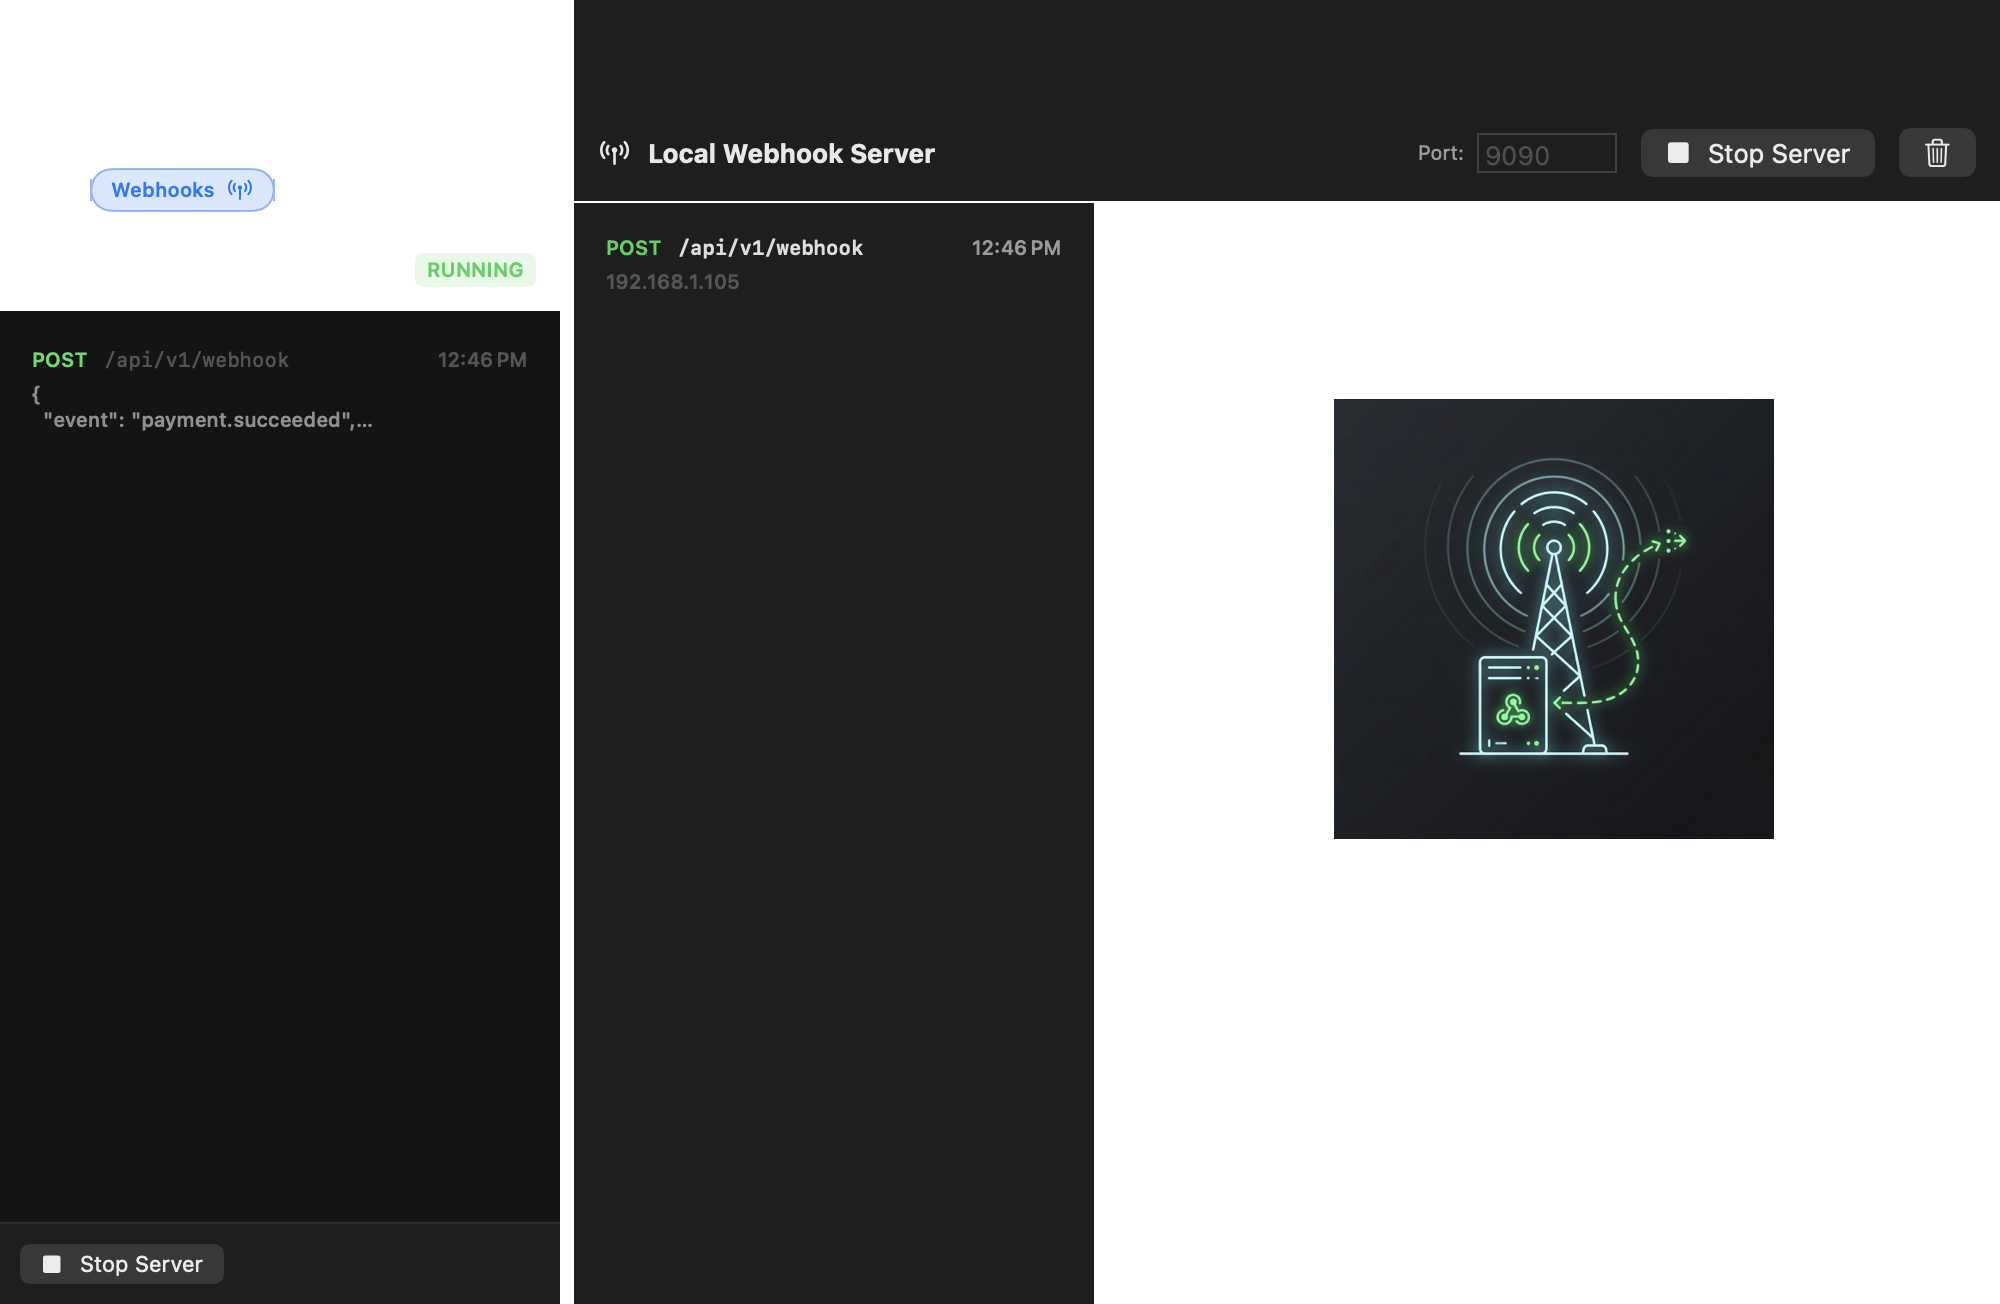
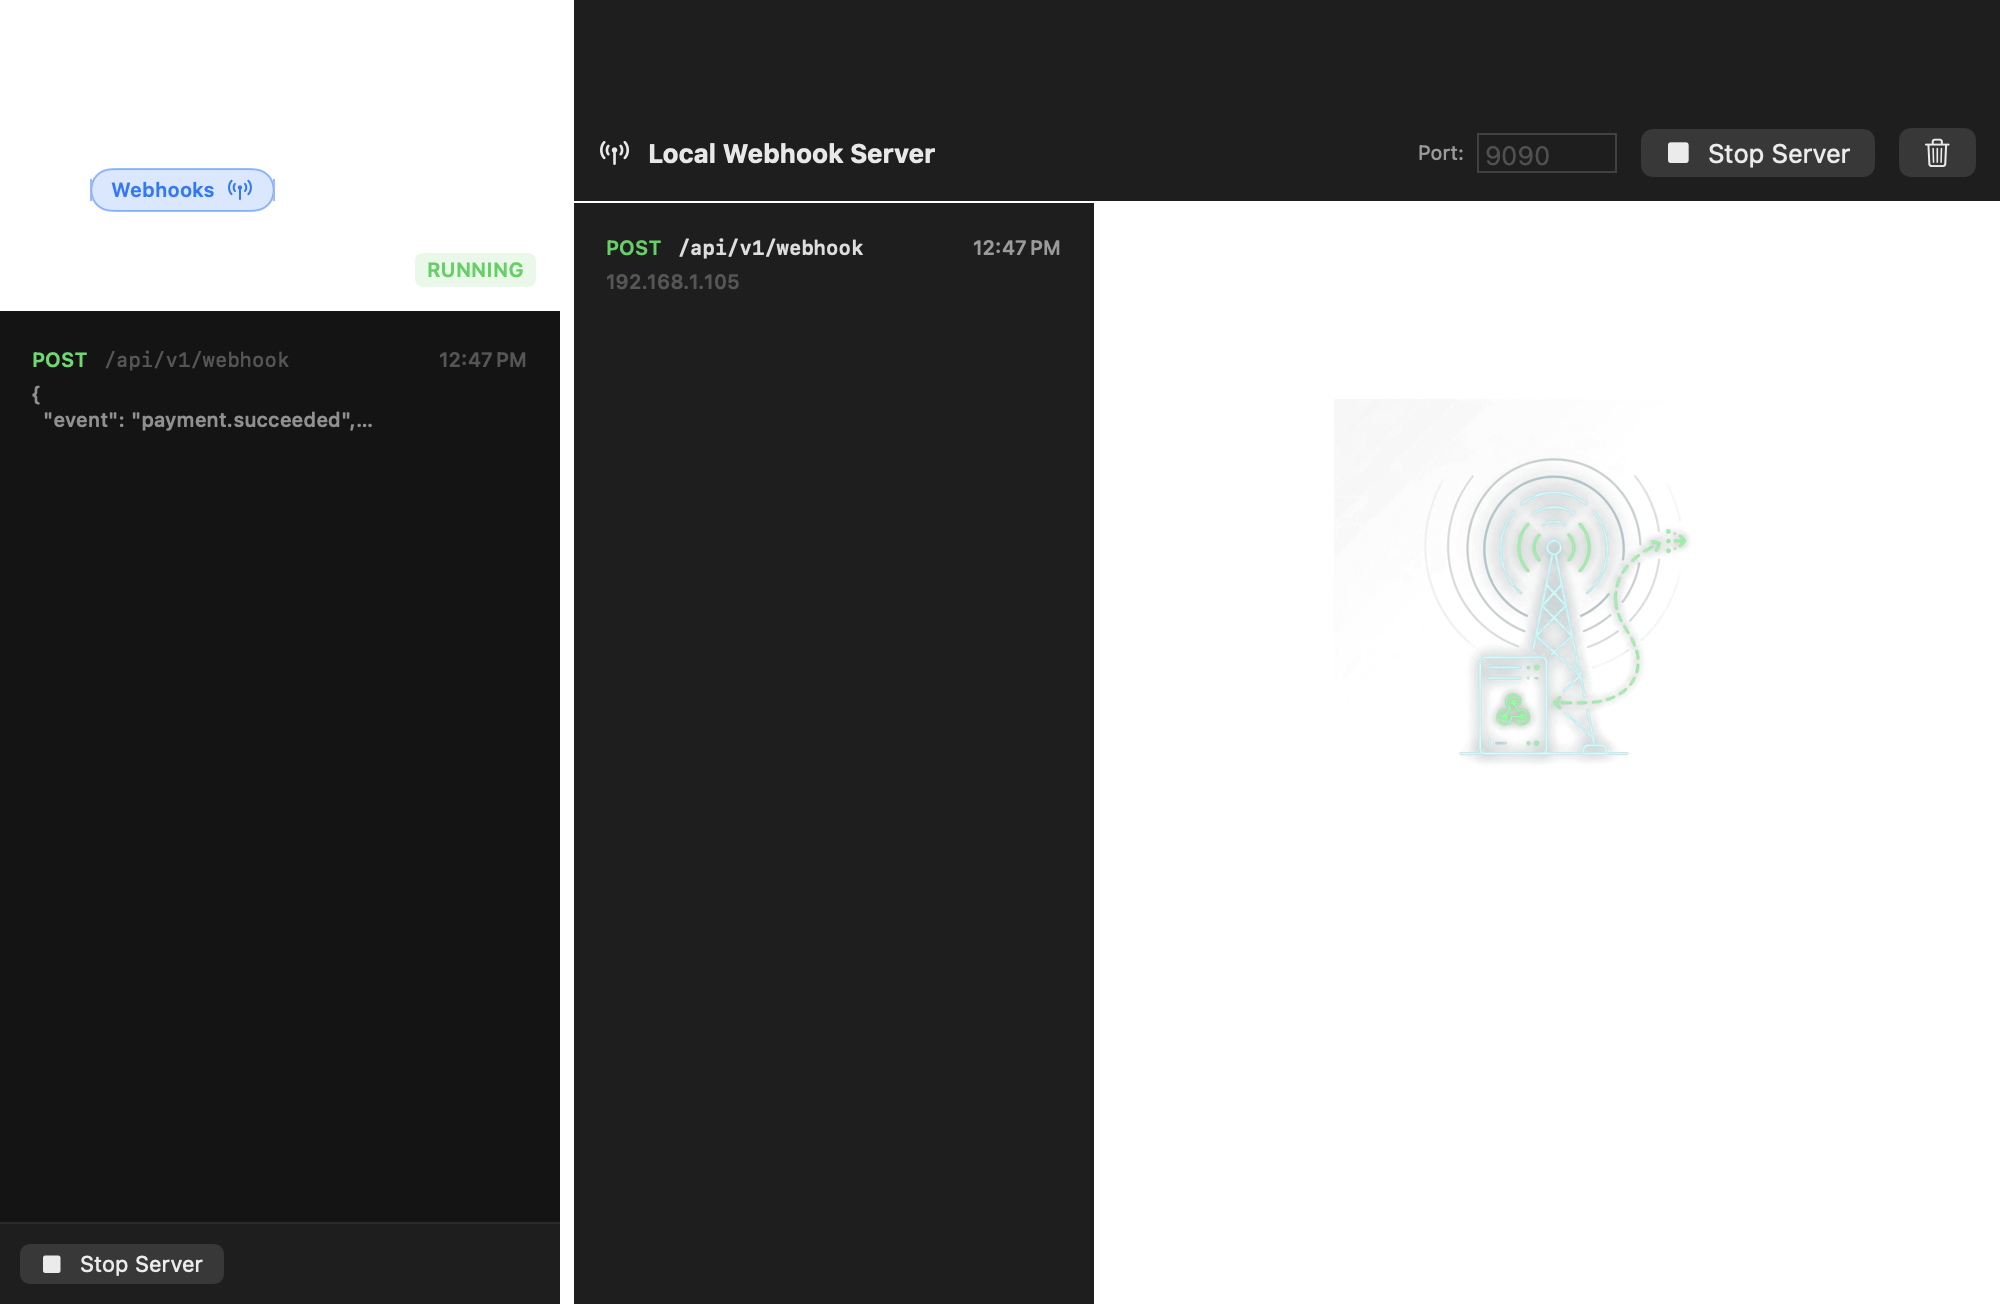
Convert empty state line-art illustrations to 32-bit RGBA transparent PNGs for light/dark theme support

Changed region(s): [[0.651, 0.3067, 0.899, 0.6442], [0.496, 0.184, 0.527, 0.2147]]

diff --git a/Sources/Post/Views/Components/EmptyStateView.swift b/Sources/Post/Views/Components/EmptyStateView.swift
@@ -32,7 +32,7 @@ public struct EmptyStateView: View {
         VStack(spacing: 16) {
             Spacer()
 
-            if let url = Bundle.module.url(forResource: imageName, withExtension: "jpg"),
+            if let url = Bundle.module.url(forResource: imageName, withExtension: "png"),
                let nsImage = NSImage(contentsOf: url) {
                 Image(nsImage: nsImage)
                     .resizable()
